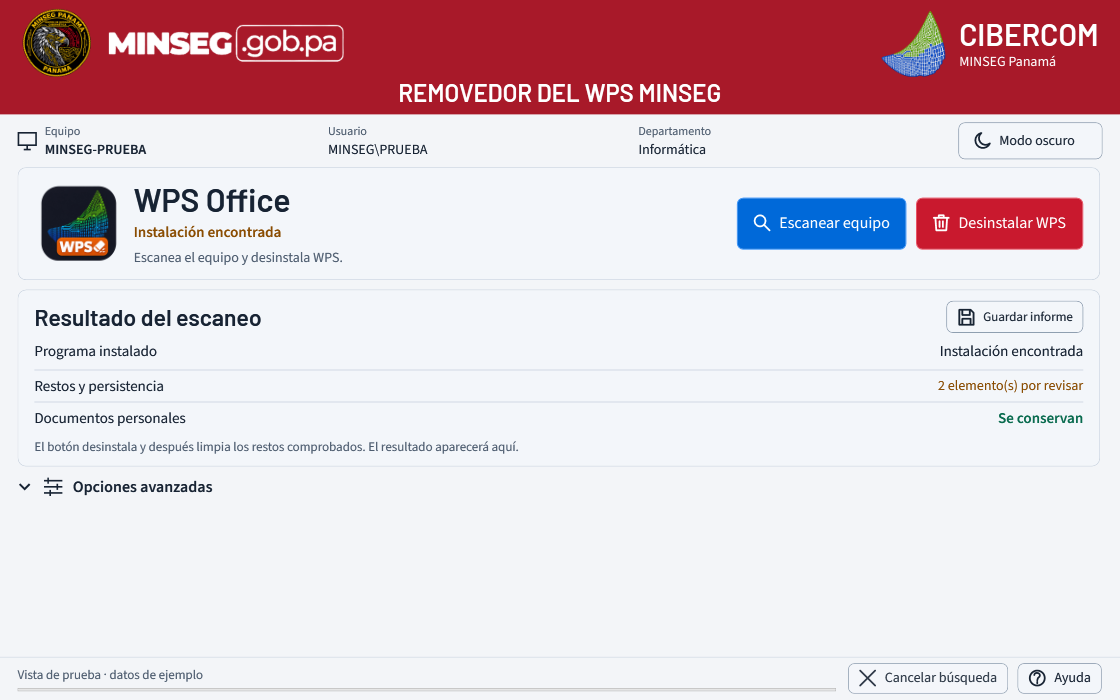
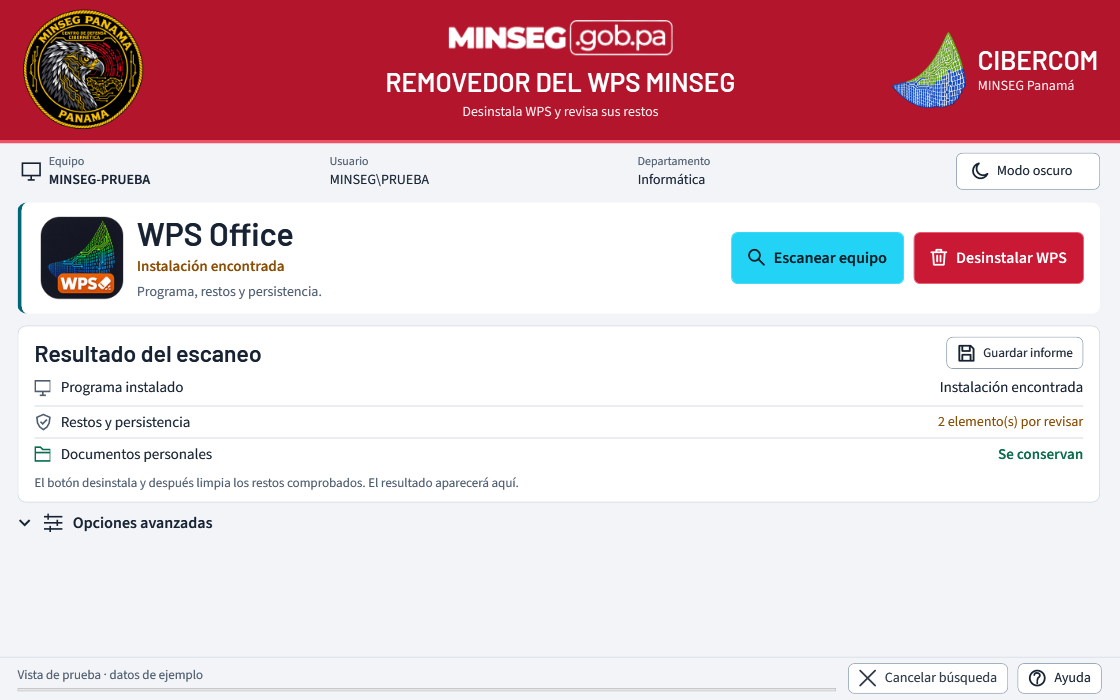
Actualiza interfaz 3.1.1: MINSEG centrado, escudo ampliado y colores de acciones
Conserva el núcleo de desinstalación y documenta el candidato sin firma, las comprobaciones locales y el bloqueo de apertura del EXE final.

Changed region(s): [[0.0, 0.0, 1.0, 0.78]]

diff --git a/src/Minseg.App/MainWindow.xaml b/src/Minseg.App/MainWindow.xaml
@@ -1,17 +1,18 @@
 <Window x:Class="Minseg.App.MainWindow" xmlns="http://schemas.microsoft.com/winfx/2006/xaml/presentation" xmlns:x="http://schemas.microsoft.com/winfx/2006/xaml" xmlns:local="clr-namespace:Minseg.App" Title="REMOVEDOR DEL WPS MINSEG" Style="{StaticResource AppWindow}" Icon="Assets/app.ico" Width="1120" Height="720" MinWidth="960" MinHeight="620" WindowStartupLocation="CenterScreen" Loaded="WindowLoaded" Closing="WindowClosing" UseLayoutRounding="True">
  <DockPanel>
-  <Border DockPanel.Dock="Top" Background="{DynamicResource Header}" Padding="22,8">
+  <Border DockPanel.Dock="Top" Background="{DynamicResource Header}" Padding="22,8" BorderBrush="#EE5267" BorderThickness="0,0,0,3">
    <Grid>
-    <Grid.RowDefinitions><RowDefinition Height="70"/><RowDefinition Height="28"/></Grid.RowDefinitions>
-    <StackPanel Orientation="Horizontal" HorizontalAlignment="Left" VerticalAlignment="Center">
-     <Image Source="Assets/minseg-seal.png" Width="70" Height="70" Stretch="Uniform" RenderOptions.BitmapScalingMode="HighQuality" AutomationProperties.Name="Escudo MINSEG Panamá"/>
-     <Image Source="Assets/minseg-wordmark.png" Width="235" Height="47" Margin="16,0,0,0" Stretch="Uniform" RenderOptions.BitmapScalingMode="HighQuality" AutomationProperties.Name="MINSEG punto gob punto pa"/>
+    <Grid.ColumnDefinitions><ColumnDefinition Width="210"/><ColumnDefinition Width="*"/><ColumnDefinition Width="210"/></Grid.ColumnDefinitions>
+    <Image Source="Assets/minseg-seal.png" Width="124" Height="124" HorizontalAlignment="Left" Stretch="Uniform" RenderOptions.BitmapScalingMode="HighQuality" AutomationProperties.Name="Escudo MINSEG Panamá"/>
+    <StackPanel Grid.Column="1" HorizontalAlignment="Center" VerticalAlignment="Center">
+     <Image Source="Assets/minseg-wordmark.png" Width="224" Height="38" Margin="0,0,0,10" Stretch="Uniform" RenderOptions.BitmapScalingMode="HighQuality" AutomationProperties.Name="MINSEG punto gob punto pa"/>
+     <TextBlock Text="REMOVEDOR DEL WPS MINSEG" Foreground="White" FontFamily="{StaticResource TitleFont}" FontSize="26" TextAlignment="Center"/>
+     <TextBlock Text="Desinstala WPS y revisa sus restos" Foreground="#FFF0F2" FontSize="14" TextAlignment="Center" Margin="0,4,0,0"/>
     </StackPanel>
-    <StackPanel Orientation="Horizontal" HorizontalAlignment="Right" VerticalAlignment="Center">
-     <Image Source="Assets/cibercom.png" Width="68" Height="68" Stretch="Uniform" RenderOptions.BitmapScalingMode="HighQuality" AutomationProperties.Name="Logo CIBERCOM"/>
-     <StackPanel VerticalAlignment="Center" Margin="12,0,0,0"><TextBlock Text="CIBERCOM" FontFamily="{StaticResource TitleFont}" FontSize="30" Foreground="White"/><TextBlock Text="MINSEG Panamá" Foreground="White" FontSize="14"/></StackPanel>
+    <StackPanel Grid.Column="2" Orientation="Horizontal" HorizontalAlignment="Right" VerticalAlignment="Center">
+     <Image Source="Assets/cibercom.png" Width="78" Height="78" Stretch="Uniform" RenderOptions.BitmapScalingMode="HighQuality" AutomationProperties.Name="Logo CIBERCOM"/>
+     <StackPanel VerticalAlignment="Center" Margin="10,0,0,0"><TextBlock Text="CIBERCOM" FontFamily="{StaticResource TitleFont}" FontSize="26" Foreground="White"/><TextBlock Text="MINSEG Panamá" Foreground="#FFF0F2" FontSize="14"/></StackPanel>
     </StackPanel>
-    <TextBlock Grid.Row="1" Text="REMOVEDOR DEL WPS MINSEG" Foreground="White" FontFamily="{StaticResource TitleFont}" FontSize="24" HorizontalAlignment="Center"/>
    </Grid>
   </Border>
   <Border DockPanel.Dock="Bottom" Background="{DynamicResource Canvas}" Padding="18,6" BorderBrush="{DynamicResource Edge}" BorderThickness="0,1,0,0">
@@ -26,7 +27,7 @@
   </Border>
   <Grid Margin="18,8,18,10">
    <Grid.RowDefinitions><RowDefinition Height="Auto"/><RowDefinition Height="*"/></Grid.RowDefinitions>
-   <Grid Margin="0,0,0,8"><Grid.ColumnDefinitions><ColumnDefinition/><ColumnDefinition/><ColumnDefinition/><ColumnDefinition Width="Auto"/></Grid.ColumnDefinitions>
+   <Grid Margin="4,2,2,12"><Grid.ColumnDefinitions><ColumnDefinition/><ColumnDefinition/><ColumnDefinition/><ColumnDefinition Width="Auto"/></Grid.ColumnDefinitions>
     <StackPanel Orientation="Horizontal" VerticalAlignment="Center"><Path Data="{StaticResource ComputerIcon}" Stroke="{DynamicResource Ink}" StrokeThickness="1.6" Width="19" Height="19" Stretch="Uniform" Margin="0,0,8,0"/><StackPanel><TextBlock Text="Equipo" FontSize="12" Foreground="{DynamicResource Subtle}"/><TextBlock Text="{Binding Computer}" Foreground="{DynamicResource Ink}" FontWeight="SemiBold" FontSize="14"/></StackPanel></StackPanel>
     <StackPanel Grid.Column="1" VerticalAlignment="Center"><TextBlock Text="Usuario" FontSize="12" Foreground="{DynamicResource Subtle}"/><TextBlock Text="{Binding ConnectedUser}" Foreground="{DynamicResource Ink}" FontSize="14" TextWrapping="NoWrap" TextTrimming="CharacterEllipsis" ToolTip="{Binding ConnectedUser}"/></StackPanel>
     <StackPanel Grid.Column="2" VerticalAlignment="Center"><TextBlock Text="Departamento" FontSize="12" Foreground="{DynamicResource Subtle}"/><TextBlock Text="{Binding Department}" Foreground="{DynamicResource Ink}" FontSize="14"/></StackPanel>
@@ -36,33 +37,33 @@
    </Grid>
    <ScrollViewer Grid.Row="1" VerticalScrollBarVisibility="Auto" HorizontalScrollBarVisibility="Disabled">
     <StackPanel x:Name="WorkArea" IsEnabled="{Binding Available}" Margin="0,0,2,0">
-     <Border Style="{StaticResource Panel}" Padding="16,12" Margin="0,0,0,10">
+     <Border Style="{StaticResource Panel}" Padding="16,12" Margin="0,0,0,12" BorderBrush="{DynamicResource Wps}" BorderThickness="4,0,0,0">
       <Grid><Grid.ColumnDefinitions><ColumnDefinition Width="90"/><ColumnDefinition Width="*"/><ColumnDefinition Width="Auto"/><ColumnDefinition Width="Auto"/></Grid.ColumnDefinitions>
-       <Image Source="Assets/app-mark.png" Width="76" Height="76" Stretch="Uniform" RenderOptions.BitmapScalingMode="HighQuality" AutomationProperties.Name="Icono WPS MINSEG"/>
+       <Image Source="Assets/app-mark.png" Width="84" Height="84" Stretch="Uniform" RenderOptions.BitmapScalingMode="HighQuality" AutomationProperties.Name="Icono WPS MINSEG"/>
        <StackPanel Grid.Column="1" VerticalAlignment="Center" Margin="10,0,10,0">
         <TextBlock Text="WPS Office" Foreground="{DynamicResource Ink}" FontFamily="{StaticResource TitleFont}" FontSize="32"/>
         <TextBlock Text="{Binding WpsSummary}" Foreground="{DynamicResource Warning}" FontWeight="SemiBold" FontSize="15" Margin="0,3,0,4"/>
-        <TextBlock Text="Escanea el equipo y desinstala WPS." Foreground="{DynamicResource Subtle}" FontSize="14"/>
+        <TextBlock Text="Programa, restos y persistencia." Foreground="{DynamicResource Subtle}" FontSize="14"/>
        </StackPanel>
-       <Button Grid.Column="2" x:Name="ScanAction" Content="Escanear equipo" local:ActionIcon.Data="{StaticResource ScanIcon}" Background="#0069D9" Foreground="White" BorderBrush="#268BFF" Click="ScanFiles" IsEnabled="{Binding CanUseTools}" Padding="16,12" FontSize="16" VerticalAlignment="Center" MinHeight="52" Margin="8,0,10,0"/>
-       <Button Grid.Column="3" x:Name="WpsAction" Content="Desinstalar WPS" local:ActionIcon.Data="{StaticResource TrashIcon}" Background="#C9192E" Foreground="White" BorderBrush="#EC4559" Click="UninstallWps" IsEnabled="{Binding CanUseTools}" Padding="16,12" FontSize="16" VerticalAlignment="Center" MinHeight="52" Margin="0"/>
+       <Button Grid.Column="2" x:Name="ScanAction" Content="Escanear equipo" local:ActionIcon.Data="{StaticResource ScanIcon}" Background="{DynamicResource WpsFill}" Foreground="#071D24" BorderBrush="#22D3F5" Click="ScanFiles" IsEnabled="{Binding CanUseTools}" Padding="16,12" FontSize="16" FontWeight="SemiBold" VerticalAlignment="Center" MinHeight="52" Margin="8,0,10,0"/>
+       <Button Grid.Column="3" x:Name="WpsAction" Content="Desinstalar WPS" local:ActionIcon.Data="{StaticResource TrashIcon}" Background="#C91935" Foreground="White" BorderBrush="#F35068" Click="UninstallWps" IsEnabled="{Binding CanUseTools}" Padding="16,12" FontSize="16" FontWeight="SemiBold" VerticalAlignment="Center" MinHeight="52" Margin="0"/>
       </Grid>
      </Border>
      <Border Style="{StaticResource Panel}" Padding="16,10" Margin="0,0,0,10">
       <StackPanel>
        <DockPanel Margin="0,0,0,6"><Button DockPanel.Dock="Right" Content="Guardar informe" local:ActionIcon.Data="{StaticResource SaveIcon}" Click="ExportReport" Padding="10,5" MinHeight="32" FontSize="13" Margin="0"/><TextBlock Text="Resultado del escaneo" Foreground="{DynamicResource Ink}" FontFamily="{StaticResource TitleFont}" FontSize="23" VerticalAlignment="Center"/></DockPanel>
        <Grid Margin="0,2"><Grid.ColumnDefinitions><ColumnDefinition Width="230"/><ColumnDefinition/></Grid.ColumnDefinitions>
-        <TextBlock Text="Programa instalado" Foreground="{DynamicResource Ink}" FontSize="15"/>
+        <StackPanel Orientation="Horizontal"><Path Data="{StaticResource ComputerIcon}" Stroke="{DynamicResource Subtle}" StrokeThickness="1.6" Width="17" Height="17" Stretch="Uniform" Margin="0,0,10,0" VerticalAlignment="Center"/><TextBlock Text="Programa instalado" Foreground="{DynamicResource Ink}" FontSize="15"/></StackPanel>
         <TextBlock Grid.Column="1" Text="{Binding WpsSummary}" Foreground="{DynamicResource Ink}" TextAlignment="Right" FontSize="15"/>
        </Grid>
        <Border Height="1" Background="{DynamicResource Edge}" Margin="0,5"/>
        <Grid><Grid.ColumnDefinitions><ColumnDefinition Width="200"/><ColumnDefinition/></Grid.ColumnDefinitions>
-        <TextBlock Text="Restos y persistencia" Foreground="{DynamicResource Ink}" FontSize="15"/>
+        <StackPanel Orientation="Horizontal"><Path Data="{StaticResource ShieldIcon}" Stroke="{DynamicResource Subtle}" StrokeThickness="1.6" Width="17" Height="17" Stretch="Uniform" Margin="0,0,10,0" VerticalAlignment="Center"/><TextBlock Text="Restos y persistencia" Foreground="{DynamicResource Ink}" FontSize="15"/></StackPanel>
         <TextBlock Grid.Column="1" Text="{Binding WpsReviewSummary}" Foreground="{DynamicResource Warning}" TextAlignment="Right" FontSize="14"/>
        </Grid>
        <Border Height="1" Background="{DynamicResource Edge}" Margin="0,5"/>
        <Grid><Grid.ColumnDefinitions><ColumnDefinition Width="230"/><ColumnDefinition/></Grid.ColumnDefinitions>
-        <TextBlock Text="Documentos personales" Foreground="{DynamicResource Ink}" FontSize="15"/>
+        <StackPanel Orientation="Horizontal"><Path Data="{StaticResource FolderIcon}" Stroke="{DynamicResource Office}" StrokeThickness="1.6" Width="17" Height="17" Stretch="Uniform" Margin="0,0,10,0" VerticalAlignment="Center"/><TextBlock Text="Documentos personales" Foreground="{DynamicResource Ink}" FontSize="15"/></StackPanel>
         <TextBlock Grid.Column="1" Text="Se conservan" Foreground="{DynamicResource Office}" FontWeight="SemiBold" TextAlignment="Right" FontSize="15"/>
        </Grid>
        <TextBlock Text="{Binding RemovalResult}" Foreground="{DynamicResource Subtle}" FontSize="13" TextWrapping="Wrap" MaxHeight="70" Margin="0,9,0,0" ToolTip="{Binding RemovalResult}" AutomationProperties.LiveSetting="Polite"/>

diff --git a/src/Minseg.App/MainWindow.xaml.cs b/src/Minseg.App/MainWindow.xaml.cs
@@ -317,7 +317,7 @@ public partial class MainWindow:Window
     private void ShowAbout(object sender,RoutedEventArgs e)
     {
         var tabs=new TabControl();
-        tabs.Items.Add(new TabItem{Header="Ayuda",Content=ReadOnlyText("REMOVEDOR DEL WPS MINSEG 3.1.0\n\nEscanear equipo revisa WPS, sus restos y persistencia. Desinstalar WPS inicia la desinstalación, limpia los elementos comprobados y vuelve a revisar. Guarda antes los documentos abiertos. Windows puede pedir permisos y el fabricante puede mostrar su propio asistente.\n\nLas opciones avanzadas contienen Office, las rutas encontradas, el informe y los respaldos. El modo negro y claro se cambia con el botón superior.\n\nEsta edición se centra en WPS. Conserva documentos, archivos de nube y elementos dudosos. No cierra Explorer ni otros programas. Al abrir solo consulta información.\n\nUn único EXE para Windows x64. Registros y respaldos en MINSEG-Control, dentro de ProgramData o AppData local. Office automático requiere una política compatible de dominio y un nuevo inicio de sesión; preparar no significa aplicado.\n\nCódigo Apache 2.0; logos y marcas conservan sus derechos. Compilación sin firma digital institucional.")});
+        tabs.Items.Add(new TabItem{Header="Ayuda",Content=ReadOnlyText($"REMOVEDOR DEL WPS MINSEG {typeof(MainWindow).Assembly.GetName().Version?.ToString(3)}\n\nEscanear equipo revisa WPS, sus restos y persistencia. Desinstalar WPS inicia la desinstalación, limpia los elementos comprobados y vuelve a revisar. Guarda antes los documentos abiertos. Windows puede pedir permisos y el fabricante puede mostrar su propio asistente.\n\nLas opciones avanzadas contienen Office, las rutas encontradas, el informe y los respaldos. El modo negro y claro se cambia con el botón superior.\n\nEsta edición se centra en WPS. Conserva documentos, archivos de nube y elementos dudosos. No cierra Explorer ni otros programas. Al abrir solo consulta información.\n\nUn único EXE para Windows x64. Registros y respaldos en MINSEG-Control, dentro de ProgramData o AppData local. Office automático requiere una política compatible de dominio y un nuevo inicio de sesión; preparar no significa aplicado.\n\nCódigo Apache 2.0; logos y marcas conservan sus derechos. Compilación sin firma digital institucional.")});
         using(var guide=Assembly.GetExecutingAssembly().GetManifestResourceStream("Minseg.App.Help.Guia")!)
         using(var reader=new StreamReader(guide))tabs.Items.Add(new TabItem{Header="Cómo usarlo",Content=ReadOnlyText(reader.ReadToEnd())});
         using(var guide=Assembly.GetExecutingAssembly().GetManifestResourceStream("Minseg.App.Help.Office")!)

diff --git a/src/Minseg.App/AppTheme.cs b/src/Minseg.App/AppTheme.cs
@@ -9,12 +9,12 @@ public static class AppTheme
     {
         IsDark=dark;
         void Set(string key,string light,string night)=>Application.Current.Resources[key]=new SolidColorBrush((Color)ColorConverter.ConvertFromString(dark?night:light));
-        Set("Canvas","#F3F5F8","#000000");Set("Ink","#172333","#F4F7FB");Set("Subtle","#4E5D70","#C8C8C8");
-        Set("Surface","#F3F6FA","#0A0A0A");Set("Raised","#E8EEF5","#101010");Set("Input","#FFFFFF","#0D0D0D");
+        Set("Canvas","#F2F4F7","#000000");Set("Ink","#172333","#F4F7FB");Set("Subtle","#4E5D70","#C8C8C8");
+        Set("Surface","#FFFFFF","#0C0C0C");Set("Raised","#E8EEF5","#101010");Set("Input","#FFFFFF","#0D0D0D");
         Set("Edge","#C4CFDC","#333333");Set("StrongEdge","#8192A6","#646464");Set("Hover","#DAE5F0","#242424");
         Set("Track","#E8EEF5","#050505");Set("Thumb","#8192A6","#666666");Set("PolicyPanel","#F3EDFD","#151515");
         Set("Wps","#006579","#22D3F5");Set("AnyDesk","#A44200","#FF923F");Set("Blocking","#6332A1","#BF9BFF");Set("Office","#086B4E","#42E2AD");
         Set("WpsFill","#22D3F5","#22D3F5");Set("AnyDeskFill","#FF923F","#FF923F");Set("BlockingFill","#BF9BFF","#BF9BFF");Set("OfficeFill","#42E2AD","#42E2AD");
-        Set("Header","#A81929","#A81929");Set("Warning","#8A4C00","#FFD24A");
+        Set("Header","#B3152C","#B3152C");Set("Warning","#8A4C00","#FFD24A");
     }
 }

diff --git a/README.md b/README.md
@@ -1,10 +1,12 @@
 # REMOVEDOR DEL WPS MINSEG
 
-Herramienta de Windows para desinstalar WPS Office, revisar su persistencia y limpiar restos comprobados conservando documentos. Versión del programa: **3.1.0**, edición centrada en WPS.
+Herramienta de Windows para desinstalar WPS Office, revisar su persistencia y limpiar restos comprobados conservando documentos. Versión del programa: **3.1.1**, edición centrada en WPS.
 
 **Estado: candidato de pruebas sin firma.** La aceptación de SignPath Foundation y la firma pública siguen pendientes. No desactives Smart App Control, el antivirus ni las políticas del equipo para ejecutarlo. No se promete eliminación total ni compatibilidad certificada con un antivirus.
 
 ![Interfaz con datos ficticios](docs/images/modo-negro.png)
+
+[Ver el modo claro](docs/images/modo-claro.png).
 
 ## Uso
 
@@ -21,10 +23,10 @@ Esta interfaz realiza acciones solo sobre WPS. El núcleo compartido contiene ta
 ## Descargas y documentación
 
 - [Versiones de prueba](https://github.com/EAHV09/REMOVEDOR-WPS-MINSEG/releases): comprobar siempre la etiqueta de firma y los avisos de cada entrega.
-- [Guía de uso](docs/GUIA.md) · [Cambios](docs/CAMBIOS-3.1.0.md) · [Pruebas locales de la versión](docs/PRUEBAS-3.1.0.md).
+- [Guía de uso](docs/GUIA.md) · [Cambios](docs/CAMBIOS-3.1.1.md) · [Pruebas locales de la versión](docs/PRUEBAS-3.1.1.md).
 - [Office automático para TI](docs/OFFICE-AUTOMATICO-TI.md) · [Seguridad](SECURITY.md) · [Privacidad](PRIVACY.md).
 - [Code signing policy](CODE_SIGNING.md) · [Firma con SignPath, paso a paso](docs/signpath/PASO-A-PASO.md).
-- [Comprobaciones de la preparación pública](docs/signpath/VALIDACION-3.1.0.md).
+- [Comprobaciones de la preparación pública inicial (3.1.0) inicial (3.1.1)](docs/signpath/VALIDACION-3.1.0.md).
 
 Las capturas usan datos ficticios. Los informes de las PC y las credenciales no pertenecen a este repositorio.
 
@@ -33,12 +35,12 @@ Las capturas usan datos ficticios. Los informes de las PC y las credenciales no 
 Windows x64, .NET SDK **10.0.401** y runtime de destino **10.0.12**, fijados por el proyecto. El EXE es autónomo e incluye sus recursos; el código fuente se distribuye por separado.
 
 ```powershell
-./scripts/Build-SignPathCandidate.ps1 -OutputDirectory ./dist/candidate-310
+./scripts/Build-SignPathCandidate.ps1 -OutputDirectory ./dist/candidate-311
 ```
 
 El script restaura dependencias bloqueadas, consulta vulnerabilidades, ejecuta las pruebas del núcleo y de la interfaz y publica un candidato. No ejecuta desinstalaciones ni prepara asociaciones del equipo. Falla si la consulta de vulnerabilidades no puede completarse o encuentra avisos altos/críticos.
 
-El flujo **Compilar candidato 3.1.0** de GitHub Actions produce el EXE sin firma y evidencia. **Firma SignPath 3.1.0** solo puede solicitar firmas tras su configuración y aprobación. Los binarios para SignPath se compilan en GitHub; no se sube un EXE local como si tuviera origen verificado.
+El flujo **Compilar candidato 3.1.1** de GitHub Actions produce el EXE sin firma y evidencia. **Firma SignPath 3.1.1** solo puede solicitar firmas tras su configuración y aprobación. Los binarios para SignPath se compilan en GitHub; no se sube un EXE local como si tuviera origen verificado.
 
 ## Licencias y mantenimiento
 
@@ -48,4 +50,4 @@ Mantenimiento: [@EAHV09](https://github.com/EAHV09). Este repositorio es indepen
 
 ## English summary
 
-Windows WPS Office removal utility with a black/light interface, evidence-based residual cleanup, document preservation, and Microsoft Office association preparation for compatible domain policies. This 3.1.0 candidate is unsigned and has not completed a real endpoint pilot. SignPath Foundation acceptance is pending. Source and build workflows are public; endpoint reports and personal data are not collected by this repository.
+Windows WPS Office removal utility with a black/light interface, evidence-based residual cleanup, document preservation, and Microsoft Office association preparation for compatible domain policies. This 3.1.1 candidate is unsigned and has not completed a real endpoint pilot. SignPath Foundation acceptance is pending. Source and build workflows are public; endpoint reports and personal data are not collected by this repository.

diff --git a/docs/signpath/PASO-A-PASO.md b/docs/signpath/PASO-A-PASO.md
@@ -1,12 +1,12 @@
-# Firma gratuita de la versión 3.1.0
+# Firma gratuita de la versión 3.1.1
 
 ## 1. Preparar GitHub
 
 Repositorio exclusivo: https://github.com/EAHV09/REMOVEDOR-WPS-MINSEG
 
 1. Activa la autenticación de dos factores de tu cuenta GitHub.
-2. En **Actions**, ejecuta **Compilar candidato 3.1.0** en `main` y espera resultado correcto.
-3. Revisa el EXE de `unsigned-candidate-3.1.0` y las evidencias. Todavía no tiene firma.
+2. En **Actions**, ejecuta **Compilar candidato 3.1.1** en `main` y espera resultado correcto.
+3. Revisa el EXE de `unsigned-candidate-3.1.1` y las evidencias. Todavía no tiene firma.
 4. Publica una versión preliminar claramente marcada como **sin firma, solo pruebas**, enlazada al commit compilado. Las fuentes quedan públicas por separado.
 
 ## 2. Solicitar SignPath Foundation
@@ -46,18 +46,18 @@ Protege `main`: exige revisión para contribuciones externas, evita force-push y
 
 ## 5. Firmar
 
-1. En **Actions → Firma SignPath 3.1.0 → Run workflow**, selecciona `main` y marca solicitar firma.
+1. En **Actions → Firma SignPath 3.1.1 → Run workflow**, selecciona `main` y marca solicitar firma.
 2. Revisa/aprueba el despliegue del entorno si GitHub lo solicita.
 3. En SignPath, revisa y aprueba la primera solicitud: `AppLockerHost.ps1` y `BuildPolicy.ps1` propios del proyecto.
 4. El flujo verifica ambas firmas y construye el EXE con esos bytes.
-5. Revisa y aprueba la segunda solicitud: el EXE 3.1.0 generado por ese mismo flujo.
+5. Revisa y aprueba la segunda solicitud: el EXE 3.1.1 generado por ese mismo flujo.
 6. Descarga `signed-candidate-for-pilot` y `signed-build-evidence` solo si el flujo terminó correctamente. No publiques un artefacto de un flujo fallido.
 
 Las solicitudes esperan hasta 30 minutos cada una. Si caducan, revisa su estado en SignPath antes de reintentar. Nunca descargues como final un artefacto sin comprobar su firma.
 
 ## 6. Verificar y probar
 
-La evidencia debe indicar firma `Valid`, certificado autorizado, sello de tiempo y versión 3.1.0. El EXE firmado tendrá un SHA-256 distinto al candidato local sin firma. No cambies el contenido del EXE después de firmarlo; renombrar el archivo no cambia su contenido.
+La evidencia debe indicar firma `Valid`, certificado autorizado, sello de tiempo y versión 3.1.1. El EXE firmado tendrá un SHA-256 distinto al candidato local sin firma. No cambies el contenido del EXE después de firmarlo; renombrar el archivo no cambia su contenido.
 
 Prueba primero en una PC Windows 10 y otra Windows 11 con las protecciones activas. Respalda documentos, escanea, desinstala WPS, revisa pendientes y comprueba Office al siguiente inicio de sesión si corresponde. La firma no garantiza ausencia de bloqueos del dominio ni de detecciones del antivirus.
 

diff --git a/docs/PRUEBAS-3.1.1.md b/docs/PRUEBAS-3.1.1.md
@@ -1,0 +1,18 @@
+# Verificación de la interfaz WPS 3.1.1
+
+Comprobaciones locales del 21 de octubre de 2026:
+
+- Compilación con .NET SDK 10.0.401 y runtime 10.0.12, dependencias bloqueadas y auditoría de NuGet sin avisos.
+- Núcleo: 237 pruebas correctas; una prueba de enlaces simbólicos omitida por privilegios del entorno.
+- Estado de políticas: 14 pruebas con archivos de ejemplo. No aplican políticas al equipo.
+- Interfaz: ocho vistas WPF con datos ficticios, modos negro/claro, tamaño reducido, búsqueda en curso, opciones abiertas y resultado pendiente.
+- Revisión visual: MINSEG.gob.pa centrado encima del título; escudo de 124 píxeles; logos proporcionales, botones y texto legibles.
+- El núcleo conserva los mismos bytes que la fuente pública 3.1.0. Los cambios de aplicación afectan a la presentación y al número mostrado en Ayuda.
+
+La comprobación segura del paquete está diseñada para verificar los recursos incluidos y el rechazo de argumentos inválidos, sin desinstalar ni preparar Office. En el candidato intermedio pasó sus cinco comprobaciones. Tras corregir el número de versión de Ayuda y volver a compilar, **Windows bloqueó el inicio del EXE final mediante Control de aplicaciones**. Por tanto, las cinco comprobaciones de apertura del archivo final quedan pendientes; no se atribuye a este archivo el resultado del candidato anterior. No se cambió ninguna protección para ejecutarlo.
+
[1 lines of base64/hex data omitted]
+
+**Límites:** estas comprobaciones no sustituyen una prueba real de WPS, persistencia, documentos u Office en las PC de MINSEG. No verifican todos los escalados DPI ni configuraciones de Windows 10/11. El candidato permanece sin firma Authenticode; la aceptación de SignPath, la compilación con origen verificable en GitHub, la firma y el piloto siguen pendientes.
+
+El EXE se entrega separado de las fuentes. No se deben publicar inventarios, informes ni datos reales de los equipos.

diff --git a/CODE_SIGNING.md b/CODE_SIGNING.md
@@ -1,6 +1,6 @@
 # Code signing policy
 
-Project: **REMOVEDOR DEL WPS MINSEG**, version 3.1.0. Repository: [EAHV09/REMOVEDOR-WPS-MINSEG](https://github.com/EAHV09/REMOVEDOR-WPS-MINSEG).
+Project: **REMOVEDOR DEL WPS MINSEG**, version 3.1.1. Repository: [EAHV09/REMOVEDOR-WPS-MINSEG](https://github.com/EAHV09/REMOVEDOR-WPS-MINSEG).
 
 **Pending application/acceptance. No SignPath-signed release is currently available.** The program's Apache-2.0 license is separate from Authenticode signing. The planned certificate identity is SignPath Foundation, not an institutional MINSEG certificate. Eligibility and signing policy are decided by the Foundation.
 
@@ -25,7 +25,7 @@ All maintainers must enable MFA on GitHub and SignPath before signing. External 
 
 Only manual runs on this repository's main branch may request signing. Signing also requires the `signpath-release` environment and `SIGNPATH_ENABLED=true`. These are not substitutes for Foundation-side origin verification and manual approval. No automatic public release is made by the signing workflow.
 
-Third-party runtime binaries are not re-signed as project-owned code. The local unsigned 3.1.0 EXE is a test candidate, not the artifact to submit through the GitHub connector. Building in CI and applying signatures will produce a different file hash.
+Third-party runtime binaries are not re-signed as project-owned code. The local unsigned 3.1.1 EXE is a test candidate, not the artifact to submit through the GitHub connector. Building in CI and applying signatures will produce a different file hash.
 
 ## Proposed attribution after acceptance
 

diff --git a/docs/signpath/COMPONENTES.md b/docs/signpath/COMPONENTES.md
@@ -1,4 +1,4 @@
-# Componentes de la versión 3.1.0
+# Componentes de la versión 3.1.1
 
 | Componente | Licencia y tratamiento |
 |---|---|
@@ -14,6 +14,6 @@
 
 El mantenedor ha solicitado la publicación de este proyecto con sus recursos. Los derechos de marca se conservan en NOTICE; la admisión de estos recursos queda sujeta a la revisión de SignPath Foundation. No se afirma una licencia general para reutilizar los logos.
 
-El producto esperado es `REMOVEDOR DEL WPS MINSEG`, versión `3.1.0`. El ensamblado se llama `MINSEG-Control`. El núcleo compartido conserva componentes para otros productos, pero la interfaz y los argumentos aceptados de esta edición se limitan a WPS.
+El producto esperado es `REMOVEDOR DEL WPS MINSEG`, versión `3.1.1`. El ensamblado se llama `MINSEG-Control`. El núcleo compartido conserva componentes para otros productos, pero la interfaz y los argumentos aceptados de esta edición se limitan a WPS.
 
 El proceso exige dependencias bloqueadas, origen nuget.org y consulta de vulnerabilidades disponible. Un fallo de consulta no se interpreta como ausencia de vulnerabilidades.

diff --git a/PRIVACY.md b/PRIVACY.md
@@ -1,6 +1,6 @@
 # Privacidad
 
-REMOVEDOR DEL WPS MINSEG muestra nombre del equipo, versión de Windows, usuario de sesión, cuenta operadora, direcciones IP/MAC y departamento indicado por el operador. Lee entradas de instalaciones y revisa archivos, servicios, tareas e inicios relacionados con WPS. La interfaz 3.1.0 limita sus acciones a WPS.
+REMOVEDOR DEL WPS MINSEG muestra nombre del equipo, versión de Windows, usuario de sesión, cuenta operadora, direcciones IP/MAC y departamento indicado por el operador. Lee entradas de instalaciones y revisa archivos, servicios, tareas e inicios relacionados con WPS. La interfaz 3.1.1 limita sus acciones a WPS.
 
 No hay cuenta en la nube, publicidad, analítica ni envío automático de inventarios. El informe JSON se exporta solo cuando el operador lo solicita. Los cambios generan registros y respaldos locales en `%LOCALAPPDATA%\MINSEG-Control` o `%ProgramData%\MINSEG-Control`, según los permisos. Pueden contener rutas y configuraciones sensibles; los permisos se limitan al usuario correspondiente, administradores y SYSTEM.
 

diff --git a/docs/CAMBIOS-3.1.1.md b/docs/CAMBIOS-3.1.1.md
@@ -1,0 +1,11 @@
+# Interfaz WPS 3.1.1
+
+- MINSEG.gob.pa centrado encima del nombre del programa.
+- Escudo de la izquierda ampliado de 70 a 124 píxeles. Los tres logos mantienen sus proporciones.
+- Encabezado rojo, modo negro puro y modo claro con superficies blancas.
+- Escanear en cian, desinstalar en rojo e iconos en las filas del resultado.
+- Opciones avanzadas plegadas y resultado visible en la pantalla principal.
+
+Esta actualización cambia la presentación. El motor de desinstalación, la protección de documentos y la preparación de Office son los mismos de 3.1.0. No incorpora una firma digital ni demuestra por sí sola una desinstalación real.
+
+El EXE autónomo se entrega por separado del código fuente. La firma con SignPath y el piloto en Windows 10/11 siguen pendientes.

diff --git a/docs/GUIA.md b/docs/GUIA.md
@@ -1,4 +1,4 @@
-# REMOVEDOR DEL WPS MINSEG 3.1.0
+# REMOVEDOR DEL WPS MINSEG 3.1.1
 
 ## Uso
 
